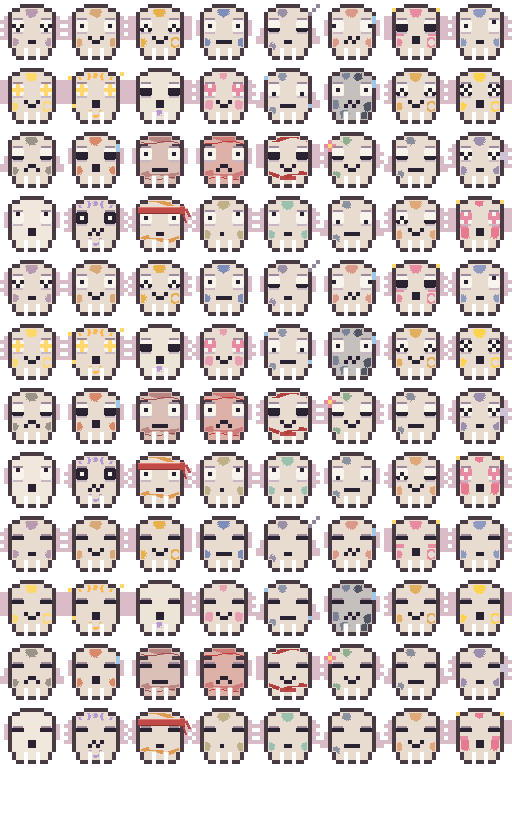
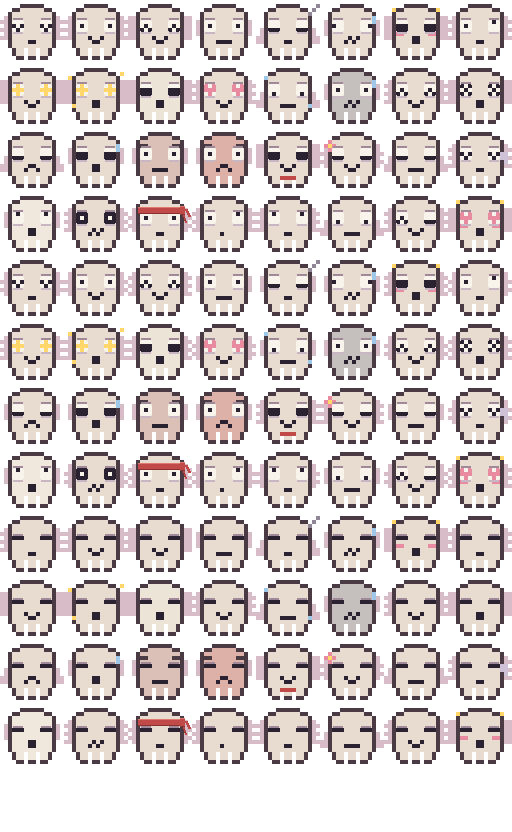
feat: the baked camo retires - all colour is alive now
The fixed bold patches read as distracting once the smooth roaming layer
existed. The skin is clean cream again (whole-body tint states, fins,
lashes, blinks, and the hachimaki all stay); every chromatophore is now
drawn live by the renderer, moving, in the reporter's palette. The mask
cell remains - it gates where the living colour travels.

diff --git a/scripts/gen-sepia.js b/scripts/gen-sepia.js
@@ -215,84 +215,11 @@ MOODS.forEach((mood, i) => { for (let frame = 0; frame < 3; frame++) {
     frect(41, 22, 10, 2, RING);
   }
 
-  // chromatophores: sub-pixel FIDELITY, macro-scale SHAPES. Dots were texture; patterns
-  // are language. Each mood wears a nameable whole — saddle, cheek blooms, rings, zebra
-  // bands (the real cuttlefish agonistic display), dense camo mottle, or a blanch —
-  // with organic 1px edges only this resolution allows.
-  {
-    const r = rng(i * 104729 + 7);               // the SAME pattern on every frame: fins flutter and lids blink, but the baked
-    const D = () => 0;                           // coloration never jumps — a pattern that teleported with the fins read as
-    const S = () => 1;                           // "spots resetting". Continuous pattern motion belongs to the renderer's smooth
-                                                 // roaming layer alone (v0.19.x); the drift channel here is retired.
-    const hue = mood[3];
-    // contrast-safe sibling: light hues get a darker one, dark hues a LIGHTER one —
-    // a dark sibling of a dark hue merges with the body outline and swallows limbs
-    const lum = c => { const h = hex(c); return 0.299 * h[0] + 0.587 * h[1] + 0.114 * h[2]; };
-    const dark = lum(hue) > 120
-      ? "#" + hex(hue).map(v => Math.max(0, Math.round(v * 0.66)).toString(16).padStart(2, "0")).join("")
-      : mixHex(hue, "#e8dcd0", 0.38);
-    const okRaw = (x, y) => {
-      if (x < 0 || x >= CELL || y < 0 || y >= CELL) return false;
-      if (BASE[y >> 2][x >> 2] !== "b") return false;                          // mantle only
-      if (y >= 17 && y <= 34 && ((x >= 11 && x <= 24) || (x >= 39 && x <= 52))) return false;  // eyes + 2px lashes
-      if (x >= 22 && x <= 41 && y >= 34 && y <= 44) return false;              // mouth zone
-      return true;
-    };
-    const ok = (x, y) =>                                                        // eroded 1px: patterns never touch the silhouette
-      okRaw(x, y) && okRaw(x - 1, y) && okRaw(x + 1, y) && okRaw(x, y - 1) && okRaw(x, y + 1);
-    const blob = (bx0, by0, rad0, c) => {                                       // organic patch: jittered edge, drifting anchor
-      const bx = bx0 + D(), by = by0 + D(), rad = rad0 * S();
-      for (let y = Math.floor(by - rad - 2); y <= by + rad + 2; y++)
-        for (let x = Math.floor(bx - rad - 2); x <= bx + rad + 2; x++) {
-          const e = rad + (r() - 0.5) * 1.7;
-          if ((x - bx) * (x - bx) + (y - by) * (y - by) <= e * e && ok(x, y)) fpx(x, y, c);
-        }
-    };
-    const ring = (bx0, by0, rad0, c) => {                                       // eye-spot ring, thick enough to read, drifting anchor
-      const bx = Math.round(bx0 + D()), by = Math.round(by0 + D()), rad = rad0 * S();
-      for (let y = Math.floor(by - rad - 2); y <= by + rad + 2; y++)
-        for (let x = Math.floor(bx - rad - 2); x <= bx + rad + 2; x++) {
-          const d = Math.sqrt((x - bx) * (x - bx) + (y - by) * (y - by));
-          if (Math.abs(d - rad) < 1.15 && ok(x, y)) fpx(x, y, c);
-        }
-    };
-    const band = (y00, amp, th, c, ph) => {                                     // wavy stripe across the mantle, sliding vertically
-      const y0 = y00 + D() * 0.6;
-      for (let x = 8; x <= 55; x++) {
-        const yy = Math.round(y0 + Math.sin(x / 5.5 + ph) * amp);
-        for (let t = 0; t < th; t++) if (ok(x, yy + t)) fpx(x, yy + t, c);
-      }
-    };
-    const P = {
-      blanch:  () => {},                                                        // fear-pale: the pattern is its absence
-      blanch1: () => blob(31, 48, 3, hue),
-      calm:    () => { blob(26, 12, 4.4, hue); blob(16, 46, 3.6, hue); },
-      saddle:  () => { blob(31, 11, 6, hue); blob(14, 42, 4.2, hue); blob(49, 42, 4.2, hue); },
-      lively:  () => { blob(31, 11, 6, hue); blob(14, 42, 4, hue); ring(47, 42, 4.6, hue); },
-      bloom:   () => { blob(17, 40, 5, hue); blob(46, 40, 5, hue); blob(31, 11, 3.6, hue); },
-      bloom2:  () => { blob(17, 40, 6, hue); blob(46, 40, 6, hue); blob(31, 10, 4.2, hue); },
-      rings:   () => { ring(20, 12, 5, hue); ring(42, 12, 5, hue); ring(31, 47, 5, hue); blob(31, 11, 2.6, hue); },
-      bands:   () => { band(8, 2, 4, hue, r() * 6); band(45, 2, 4, hue, r() * 6); },
-      storm:   () => { band(7, 1.8, 6, dark, r() * 6); band(14, 1.4, 1, hue, r() * 6); band(43, 1.8, 6, dark, r() * 6); band(50, 1.4, 1, hue, r() * 6); },
-      camo:    () => {                                                          // stratified mottle: full coverage on a tinted body, texture not twine
-        [[24, 10], [40, 12], [14, 40], [49, 40], [22, 50], [42, 50]].forEach(([zx, zy], k) =>
-          blob(zx + (r() - 0.5) * 5, zy + (r() - 0.5) * 4, 3.8 + r() * 1.6, k % 2 ? dark : hue));
-      }
-    };
-    const PTYPE = {
-      awe: "blanch", surprised: "blanch1",
-      at_peace: "calm", solemn: "calm", sleepy: "calm", weary: "calm", melancholy: "calm",
-      neutral: "saddle", content: "saddle", focused: "saddle", thinking: "saddle", asking: "saddle",
-      rhyme: "saddle", puzzled: "saddle", wink: "saddle", sheepish: "saddle", groan: "saddle", oops: "saddle",
-      delighted: "lively", mirth: "lively", spark: "lively", booped: "lively", laugh: "lively",
-      tender: "bloom", love: "bloom2",
-      excited: "rings", vertigo: "rings",
-      dramatic: "bands", resolute: "bands",
-      frustrated: "storm", angry: "storm",
-      anxious: "camo"
-    };
-    P[PTYPE[mood[0]] || "saddle"]();
-  }
+  // The baked chromatophore patterns are RETIRED (v0.20.0): the maintainer found the
+  // fixed bold patches distracting once the smooth roaming layer existed. All camo is
+  // alive now — drawn by the renderer, moving, in the live palette. The skin stays
+  // clean cream (plus the whole-body TINT states); the mask cell below still gates
+  // where the living colour may travel.
 
   if (mood[0] === "resolute") {                 // the hachimaki: crisp cloth from the high-res world
     const R = "#c04a48", Rd = "#8a3230", Rh = "#e07a70";